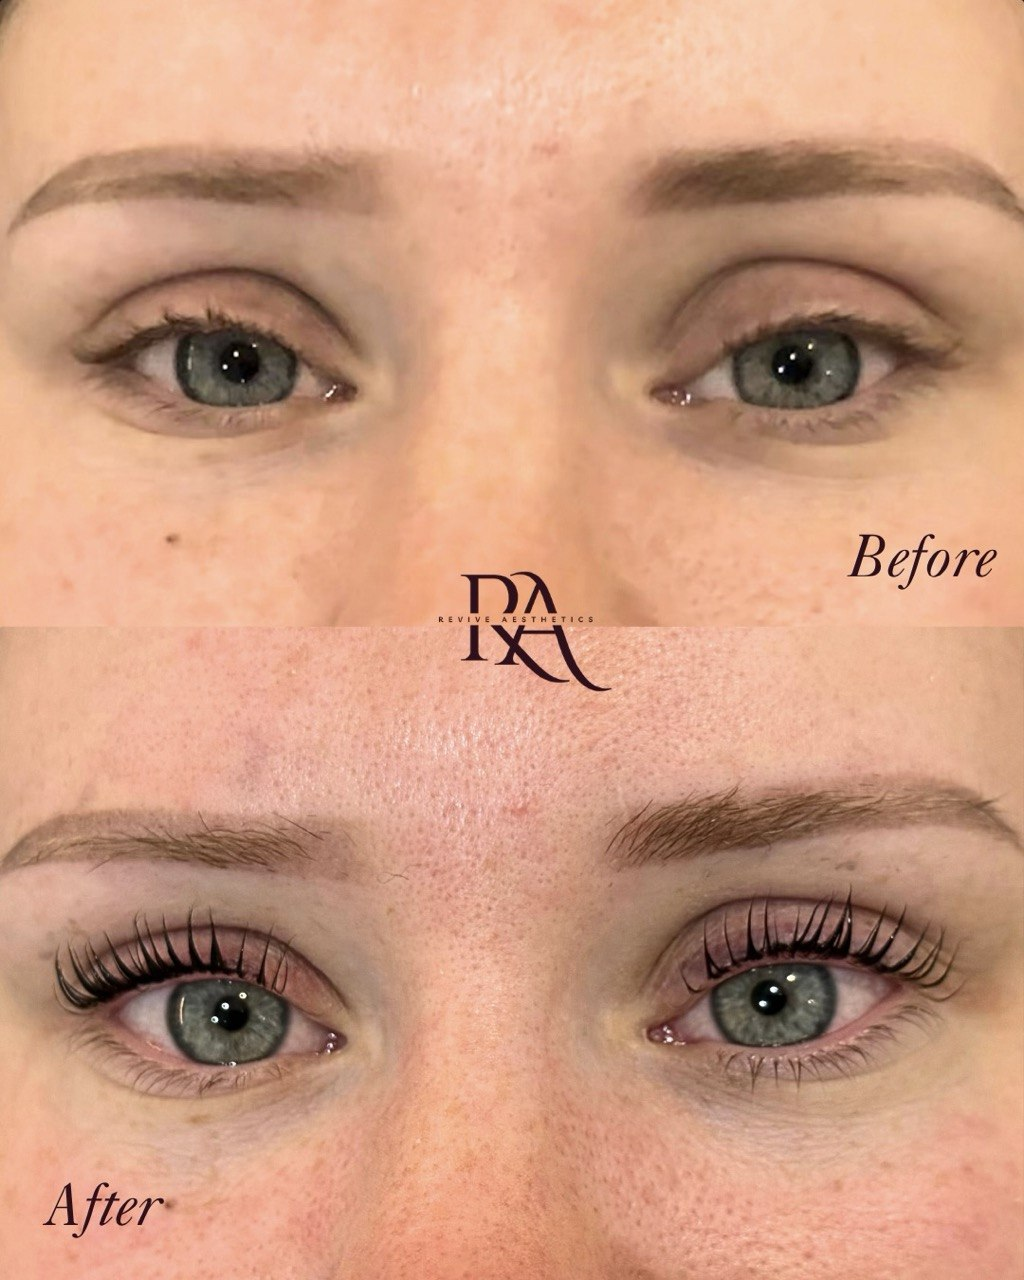
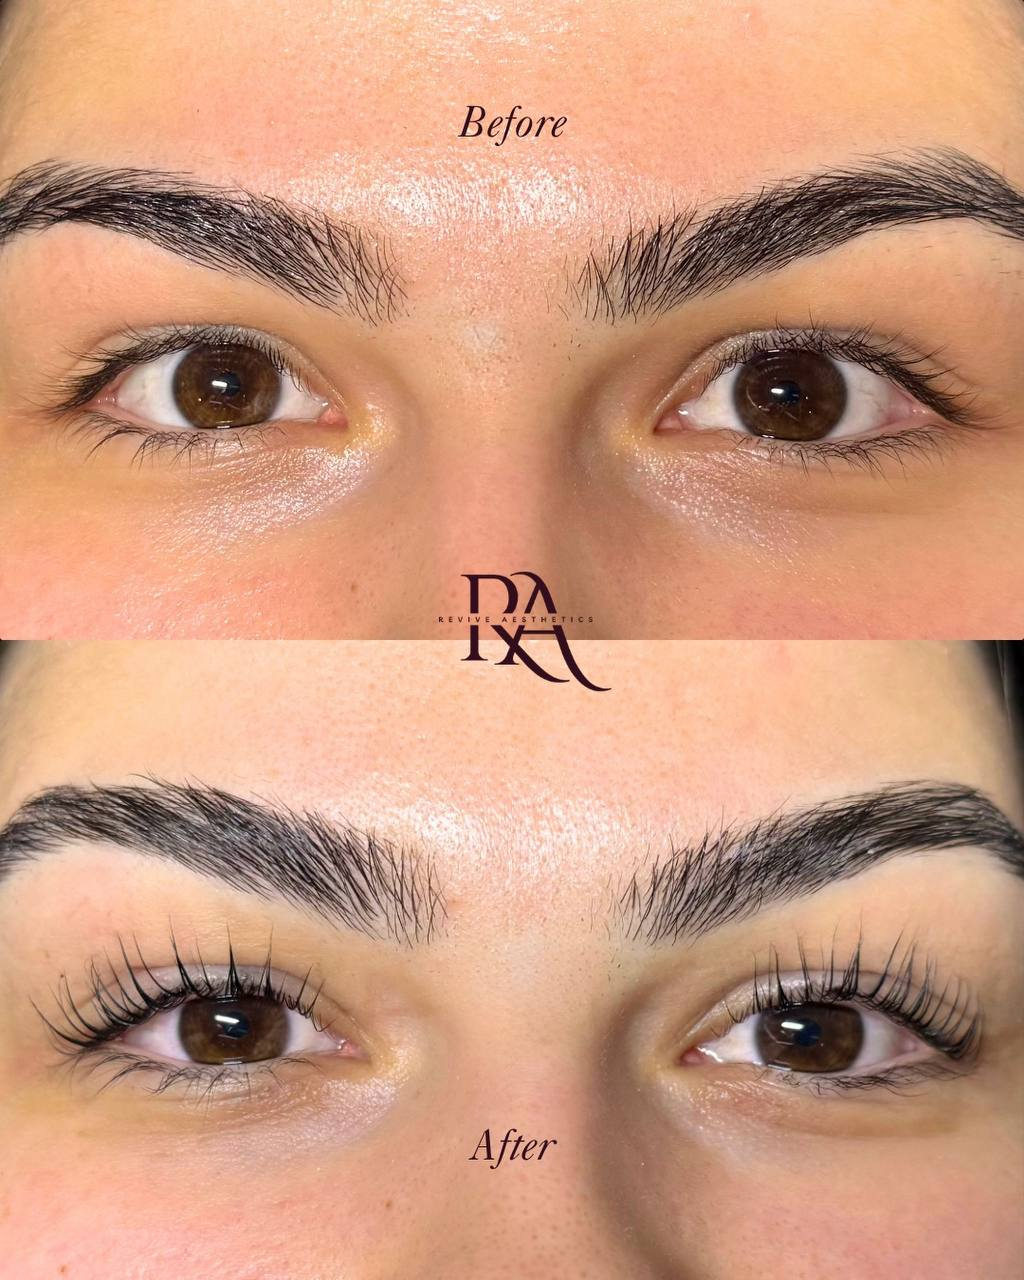
Add Korean Lash Lifts results section with before/after photo

diff --git a/index.html b/index.html
@@ -600,6 +600,9 @@
       <figure class="reveal">
         <img src="assets/lash-lift-result-5.jpg" alt="Korean lash lift before and after — Revive Aesthetics Adelaide" loading="lazy" />
       </figure>
+      <figure class="reveal">
+        <img src="assets/lash-lift-result-6.jpg" alt="Korean lash lift before and after — Revive Aesthetics Adelaide" loading="lazy" />
+      </figure>
     </div>
   </div>
 </section>
